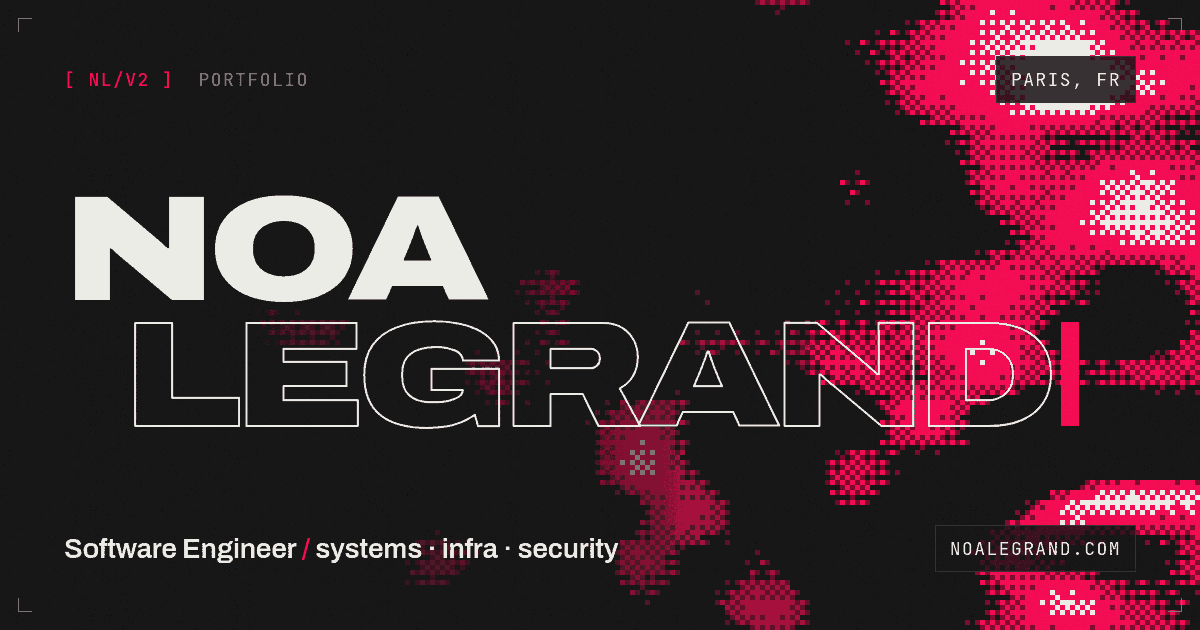
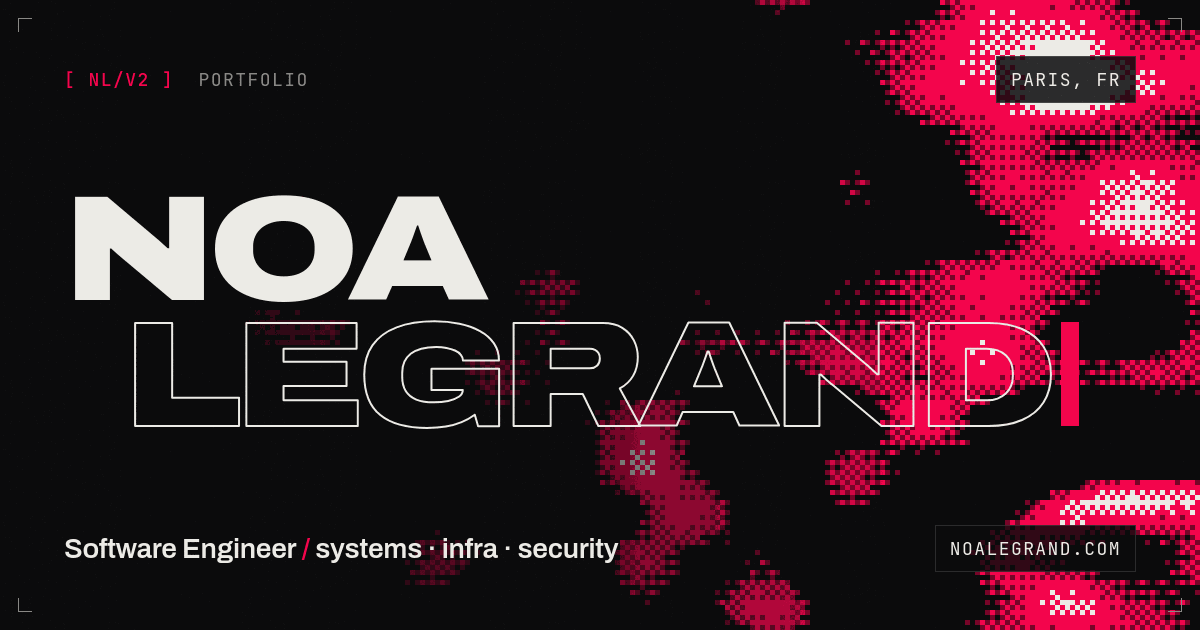
draker social card, image for thales path

diff --git a/tools/og-card.html b/tools/og-card.html
@@ -9,17 +9,17 @@
 	html, body { width: 1200px; height: 630px; overflow: hidden; margin: 0; }
 	.card { position: relative; width: 1200px; height: 630px; overflow: hidden; background: var(--bg); }
 	#f { position: absolute; inset: 0; width: 100%; height: 100%; image-rendering: pixelated; }
-	.card::after { content: ""; position: absolute; inset: 0; background: linear-gradient(90deg, var(--bg) 0%, rgba(10,10,11,.6) 48%, transparent 78%); }
+	.card::after { content: ""; position: absolute; inset: 0; background: linear-gradient(90deg, var(--bg) 0%, rgba(6,6,7,.6) 48%, transparent 78%); }
 	.in { position: absolute; inset: 0; z-index: 2; padding: 56px 64px; display: flex; flex-direction: column; justify-content: space-between; }
 	.top, .bot { display: flex; justify-content: space-between; align-items: center; font-family: var(--mono); font-size: 18px; letter-spacing: .08em; text-transform: uppercase; color: var(--ink-dim); }
 	.top b { color: var(--red); font-weight: 500; }
-	.top span:last-child, .bot span:last-child { background: rgba(10,10,11,.85); border: 1px solid var(--line); padding: 8px 14px; color: var(--ink); }
+	.top span:last-child, .bot span:last-child { background: rgba(6,6,7,.85); border: 1px solid var(--line); padding: 8px 14px; color: var(--ink); }
 	h1 { margin: 0; font-weight: 900; font-variation-settings: "wdth" 125; font-size: 150px; line-height: .84; letter-spacing: -.045em; text-transform: uppercase; color: var(--ink); }
 	h1 span { display: block; padding-left: 60px; color: transparent; -webkit-text-stroke: 2px var(--ink); }
 	h1 i { display: inline-block; width: 18px; height: 104px; background: var(--red); margin-left: 10px; }
 	.role { white-space: nowrap; font-family: var(--sans); font-size: 28px; font-variation-settings: "wdth" 100; font-weight: 600; color: var(--ink); text-transform: none; letter-spacing: -.01em; }
 	.role em { color: var(--red); font-style: normal; }
-	.grain { position: absolute; inset: 0; animation: none; opacity: .1; z-index: 3; }
+	.grain { position: absolute; inset: 0; opacity: .045; z-index: 3; }
 	.frame { position: absolute; inset: 18px; z-index: 4; }
 </style>
 </head>

diff --git a/js/main.js b/js/main.js
@@ -371,7 +371,11 @@ async function experience()
 				${x.points ? `<ul class="points">${x.points.map(pt => `<li><b>${esc(pt[0])}</b> ${esc(pt[1])}</li>`).join('')}</ul>` : ''}
 				<div class="tags">${x.tags.map(t => `<a href="${esc(t.url)}" target="_blank" rel="noopener">${esc(t.name)}</a>`).join('')}</div>
 			</div>
-			${x.video ? screen(x.video, 'INTRO.MP4') : placeholder(x.title, x.type.toUpperCase())}
+			${x.video
+				? screen(x.video, 'INTRO.MP4')
+				: x.image
+					? still(x.image, x.image.split('/').pop().toUpperCase(), x.title)
+					: placeholder(x.title, x.type.toUpperCase())}
 		</article>`).join('');
 	reveal(list);
 	watchVideos(list);

diff --git a/css/main.css b/css/main.css
@@ -556,7 +556,7 @@ button { font: inherit; color: inherit; background: none; border: 0; cursor: poi
 .points li::before { content: "▸"; position: absolute; left: 0; color: var(--red); }
 .points b { color: var(--ink); font-weight: 600; }
 .exp .screen { aspect-ratio: 16 / 9; align-self: start; }
-.exp:hover .screen video { filter: none; }
+.exp:hover .screen video, .exp:hover .screen img { filter: none; }
 .exp:hover .screen::before { opacity: 0; }
 
 /* ---------- CONTACT ---------- */
